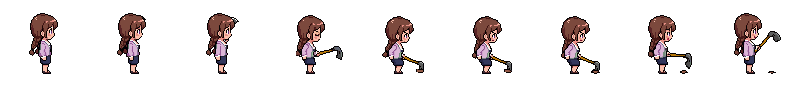
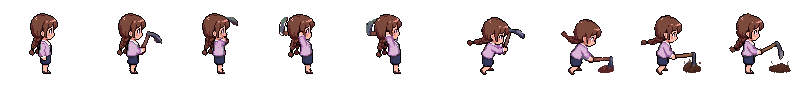
M3: เปลี่ยนท่าพรวนเป็นจอบสองมือ ทิศใต้เล่นเฟรม 3-8

diff --git a/src/scenes/BaseScene.ts b/src/scenes/BaseScene.ts
@@ -44,6 +44,8 @@ const PLAYER_HEAD_PX = 66;
 const DOOR_TAP_LIFT = 24;
 const DOOR_TAP_RADIUS = 34;
 const TILE_MIDDLE = 16;
+const TILL_HIT_FRAME = 6;
+const TILL_DIRT_PIECES = 2;
 
 /** ไล่ความมืดระหว่างจุดเวลาใน display.json */
 export function nightAlpha(hour: number): number {
@@ -392,9 +394,9 @@ export class BaseScene extends Phaser.Scene {
   }
 
   private playMoveEffect(move: GardenMove, frame: number, plot: Plot): void {
-    if ((move === 'plant' && frame >= 4 && frame <= 7) || (move === 'till' && frame >= 4 && frame <= 6)) {
-      dirtPuff(this, plot.centerX, plot.centerY);
-    }
+    if (move === 'plant' && frame >= 4 && frame <= 7) dirtPuff(this, plot.centerX, plot.centerY);
+    // ภาพท่าพรวนมีเศษดินในเฟรมแล้ว จึงเติมแค่นิดเดียวตอนจอบกระทบดิน
+    if (move === 'till' && frame === TILL_HIT_FRAME) dirtPuff(this, plot.centerX, plot.centerY, TILL_DIRT_PIECES);
     if (move === 'water' && frame === 3) {
       waterDrops(this, this.player.feetX, this.player.feetY - PLAYER_HEAD_PX / 2, plot.centerX, plot.centerY);
     }

diff --git a/tests/e2e/m3.spec.ts b/tests/e2e/m3.spec.ts
@@ -173,3 +173,14 @@ test('the seed slot shows the chosen bag and its count', async ({ page }) => {
   await expect(page.locator('.tool-slot__count')).toHaveText('12');
   await expect(page.locator('.tool-slot__key')).toHaveCount(4);
 });
+
+test('the till move skips the frames with no hoe', async ({ page }) => {
+  await open(page);
+  const frames = await page.evaluate(() => {
+    const anims = (window as unknown as { __game: { anims: { get(k: string): { frames: { textureFrame: number }[] } } } }).__game.anims;
+    return Object.fromEntries(['south', 'east', 'north'].map((dir) => [dir, anims.get(`anim_till_${dir}`).frames.map((frame) => frame.textureFrame)]));
+  });
+  expect(frames.south).toEqual([3, 4, 5, 6, 7, 8]);
+  expect(frames.east).toEqual([1, 2, 3, 4, 5, 6, 7, 8]);
+  expect(frames.north).toHaveLength(9);
+});

diff --git a/src/entities/Player.ts b/src/entities/Player.ts
@@ -59,7 +59,7 @@ export class Player {
     this.sprite.setFlipX(this.facing === 'west');
     this.sprite.setOrigin(0.5, footY(WALK_ID, sheet) / characterEntry(WALK_ID).frameHeight);
     this.sprite.anims.timeScale = 1;
-    const update = (_animation: unknown, frame: Phaser.Animations.AnimationFrame): void => onFrame(frame.index - 1);
+    const update = (_animation: unknown, frame: Phaser.Animations.AnimationFrame): void => onFrame(Number(frame.textureFrame));
     this.sprite.on(Phaser.Animations.Events.ANIMATION_UPDATE, update);
     this.sprite.once(`${Phaser.Animations.Events.ANIMATION_COMPLETE_KEY}${key}`, () => {
       this.sprite.off(Phaser.Animations.Events.ANIMATION_UPDATE, update);

diff --git a/src/scenes/farmEffects.ts b/src/scenes/farmEffects.ts
@@ -13,8 +13,8 @@ const rng = createRng(Date.now());
 const between = (min: number, max: number): number => Math.floor(rng.between(min, max + 1));
 
 /** เศษดินกระเด็นตอนตบดินและตอนพรวน */
-export function dirtPuff(scene: Phaser.Scene, x: number, y: number): void {
-  for (let index = 0; index < 5; index += 1) {
+export function dirtPuff(scene: Phaser.Scene, x: number, y: number, pieces = 5): void {
+  for (let index = 0; index < pieces; index += 1) {
     const clod = scene.add.image(x, y, 'fx_dirt', between(0, 3)).setDepth(FX_DEPTH);
     scene.tweens.add({
       targets: clod,

diff --git a/src/data/schema.ts b/src/data/schema.ts
@@ -278,6 +278,8 @@ const localEntrySchema = z.strictObject({
   frame_width: z.number().int().positive().optional(),
   frame_height: z.number().int().positive().optional(),
   frames: z.number().int().positive().optional(),
+  /** เริ่มเล่นท่าจากเฟรมนี้ เฟรมก่อนหน้าใช้ไม่ได้ เช่น ยังไม่มีจอบในมือ */
+  play_from: z.number().int().nonnegative().optional(),
   frames_meaning: z.array(z.string().min(1)).optional(),
   name_th: z.string().min(1).optional(),
   nine_slice: z

diff --git a/src/scenes/BootScene.ts b/src/scenes/BootScene.ts
@@ -56,7 +56,7 @@ export class BootScene extends Phaser.Scene {
       if (entry.type === 'local' && id.startsWith('anim_')) {
         this.anims.create({
           key: id,
-          frames: this.anims.generateFrameNumbers(id),
+          frames: this.anims.generateFrameNumbers(id, { start: entry.play_from ?? 0 }),
           frameRate: 1000 / balance.farm.actionFrameMs,
           repeat: 0,
         });

diff --git a/CLAUDE.md b/CLAUDE.md
@@ -403,6 +403,7 @@ help-tower-game/
 - **ไอคอนเก็บเกี่ยว 14 แบบ** `icon_*` ขนาดจริงราว 24–32px มีประกายทองขาวในภาพอยู่แล้ว เพราะผู้ใช้ตัดสินว่าผลผลิตในหอคอยพิเศษ ใช้ในกระเป๋า ร้านค้า สมุดสูตร และตอนเด้ง จะเพิ่มประกายกะพริบเบา ๆ ด้วยโค้ดก็ได้ ยังไม่ต้องทำระบบแยกคุณภาพ
 - **เครื่องมือ 4 ชิ้น** `tool_hoe` `tool_watering_can` `tool_sickle` `tool_seed_bag` บัวรดน้ำกว้าง 38px ห้ามย่อ ให้ล้นช่อง 32px เล็กน้อยหรือใช้ช่องกว้างขึ้น
 - **สีบัวรดน้ำ** สลับสีในโค้ด เป็นความสวยล้วน สีน้ำเงินคือเริ่มต้น · ชมพูขายด้วยดาวน้ำตาล · มินต์ ลาเวนเดอร์ เหลือง พีช จากหีบสมบัติตอนตกปลา · ทองแดง ทอง เก็บไว้สำหรับขั้นอัปเกรดในอนาคต ยังไม่ใช้ · เก็บธงปลดล็อกในเซฟไว้ก่อน ระบบหีบมาทีหลัง
+- **ท่าพรวนใหม่ (`docs/farm_till_anim_2026-11-02.md`):** จอบสองมือ ทิศใต้เล่นเฟรม 3–8 เท่านั้น ทิศตะวันออกเล่น 1–8 ตั้งด้วย `play_from` ในทะเบียน
 - **ถุงเมล็ด 14 แบบ** `seed_*` และ**ท่าทำสวนตัวสาว** `anim_{plant,water,harvest,till}_{south,east,north}` 9 เฟรม ผืน 88 ทิศตะวันตกกลับด้านจากตะวันออก ต้นทาง `docs/farm_art_2026-11-02b.md`
 - **กติกาที่ผู้ใช้ตัดสิน:** วันที่ไม่รดน้ำพืชไม่โต ไม่ตาย ขึ้น Zzz ทั้งวัน · กระเป๋า 30 ช่อง ช่องละ 99 เต็มแล้วผักอยู่ที่แปลงและพูด "กระเป๋าเต็มแล้ว…" · พืชยังมีชีวิตขุดทิ้งด้วยจอบ ต้องกดยืนยัน ต้นเหี่ยวเคลียร์ได้เลย
 - **เศรษฐกิจ (ผู้ใช้อนุมัติ 2 พ.ย. 2026 ใหม่กว่า GDD):** `docs/economy_balance_2026-11-02.md` และ `.json` เก็บครั้งเดียวได้ 3 ชิ้น พืชเก็บซ้ำได้ 3 ครั้งแรกแล้วซ้ำอีก 3 รอบ รอบละ 2 ชิ้น รวม 9 แล้วเหี่ยว `withered_*` ราคาพืชอยู่ใน `crops.json` ราคาอาหารใส่ตอน M4 และ M6

diff --git a/docs/farm_till_anim_2026-11-02.md b/docs/farm_till_anim_2026-11-02.md
@@ -1,0 +1,7 @@
+# Till (hoe) animation replaced (2026-11-02 night)
+
+User feedback: the old till looked like a sickle from the front and used one hand from the side. New files replace `public/assets/farm/anims/till_{south,east,north}.png` (same format: 9 frames of 88×88 in a row; frame 0 = rest pose; west = mirrored east).
+- south / north: new two-handed hoe swing (PixelLab, 3 credits). **South: play frames 3–8 only** in the loop (frames 1–2 have no hoe yet).
+- east: posed with a custom skeleton so both hands hold the handle in front (3 credits): raise over the head, hold, chop into the ground, pull back. Frames 1–8 all usable. The frame already shows a few dirt clods at the hit; keep the dirt-puff effect light on that frame.
+- Feet are aligned to the old frames, so no offset change is needed.
+Previews: docs/level/2026-11-02/till_compare.gif, east_skel.gif.
